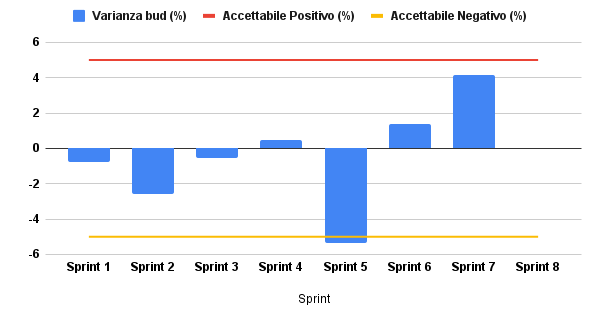
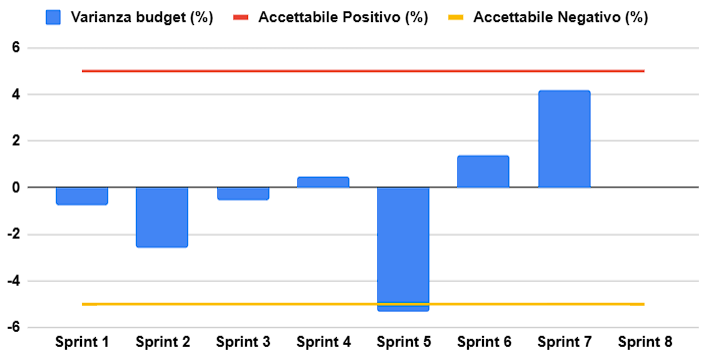
Aggiornati i registri delle modifiche PdQ e Specifica Tecnica, sistemata immagine Varianza di budget

diff --git a/src/PB/Documentazione esterna/Piano di Qualifica/contenuti/cruscotto_valutazione_qualita.tex b/src/PB/Documentazione esterna/Piano di Qualifica/contenuti/cruscotto_valutazione_qualita.tex
@@ -173,9 +173,9 @@ Fortunamente, si può notare come il team abbia saputo reagire in modo efficace 
 Come osservabile dai valori riportati dal grafico, l’ampia analisi dei rischi effettuata a inizio progetto è stata soddisfacente. 
 L'unica problematica primaria riconoscibile come rischio non già presente nella sezione dedicata del \emph{Piano di progetto}\textsubscript{\textbf{\textit{G}}} è stata riscontrata solo al termine dei lavori: 
 si tratta dell'assenza di un professore, in particolare del professor Cardin, nell'ultima settima di marzo, che ha rallentato il termine del progetto. 
-Fortunatamente, essendo questa problematica emersa alla fine del progetto, non ha causato ritardi su attività successive alla revisione \emph{Product Baseline}\textsubscript{\textbf{\textit{G}}}, 
-salvo errori che possono emergere a valle della revisione.
-Tuttavia, questa situazione ha costretto un componente del gruppo a posticipare l'inizio del proprio tirocinio, dimostrando l'impatto che anche rischi inattesi possono avere sulla pianificazione personale dei membri del team.
+Fortunatamente, essendo questa problematica emersa alla fine del progetto, non ha causato ritardi su attività precedenti alla revisione \emph{Product Baseline}\textsubscript{\textbf{\textit{G}}}, 
+però potrebbe causare ritardi in caso emergano errori a valle della revisione.
+Inoltre, questa situazione ha costretto un componente del gruppo a posticipare l'inizio del proprio tirocinio, dimostrando l'impatto che i rischi inattesi possono avere sulla pianificazione personale dei membri del team.
 
 
 

diff --git a/src/PB/Documentazione esterna/Piano di Qualifica/contenuti/registro_modifiche.tex b/src/PB/Documentazione esterna/Piano di Qualifica/contenuti/registro_modifiche.tex
@@ -25,6 +25,22 @@
         \hline
         ... & ... & Modifiche a ... & ... & ...\\
         \hline
+        1.1.4 & 22-03-25 & Aggiornamento della sezione \S\bulref{sec:Cruscotto di valutazione della qualità} con i nuovi diagrammi della Product Baseline & Riccardo Stefani & Giacomo Loat\\
+        \hline
+    \end{tabular}
+\end{table}
+
+\newpage
+
+\begin{table}[h]
+    \centering
+    \rowcolors{2}{lightgray}{white}
+    \begin{tabular}{|c|c|p{5cm}|p{3cm}|p{3cm}|}
+        \hline
+        \rowcolor[gray]{0.75}
+        \textbf{Versione} & \textbf{Data} & \multicolumn{1}{|c|}{\textbf{Descrizione}} & 
+        \multicolumn{1}{|c|}{\textbf{Autore}} & \multicolumn{1}{|c|}{\textbf{Verificatore}}\\
+        \hline
         1.1.3 & 18-03-25 & Sistemazione della sezione \S\bulref{sec:Test di sistema} & Filippo Righetto & Riccardo Stefani\\
         \hline
         1.1.2 & 17-03-25 & Aggiunti dei test di unità alla sezione \S\bulref{sec:Test di unità} e test di integrazione alla sezione \S\bulref{sec:Test di integrazione} & Filippo Righetto & Riccardo Stefani\\

diff --git a/src/PB/Documentazione esterna/Specifica Tecnica/contenuti/registro_modifiche.tex b/src/PB/Documentazione esterna/Specifica Tecnica/contenuti/registro_modifiche.tex
@@ -25,6 +25,23 @@
         \hline
         ... & ... & ... & ... & ...\\
         \hline
+        1.1.8 & 21-03-25 & Inseriti screenshot dei diagrammi delle classi e completata sezione \S\bulref{sec:architettura_di_dettaglio} &
+        Riccardo Stefani & Giacomo Loat\\
+        \hline
+    \end{tabular}
+\end{table}
+
+\newpage
+
+\begin{table}[h]
+    \centering
+    \rowcolors{2}{lightgray}{white}
+    \begin{tabular}{|c|c|p{5cm}|p{3cm}|p{3cm}|}
+        \hline
+        \rowcolor[gray]{0.75}
+        \textbf{Versione} & \textbf{Data} & \multicolumn{1}{|c|}{\textbf{Descrizione}} & 
+        \multicolumn{1}{|c|}{\textbf{Autore}} & \multicolumn{1}{|c|}{\textbf{Verificatore}}\\
+        \hline
         1.1.7 & 18-03-25 & Terminata scrittura sezione \S\bulref{sec:stato_requisiti_funzionali} & Riccardo Stefani & Giacomo Loat\\
         \hline
         1.1.6 & 18-03-25 & Iniziata scrittura sezione \S\bulref{sec:stato_requisiti_funzionali} & Filippo Righetto & Riccardo Stefani\\
